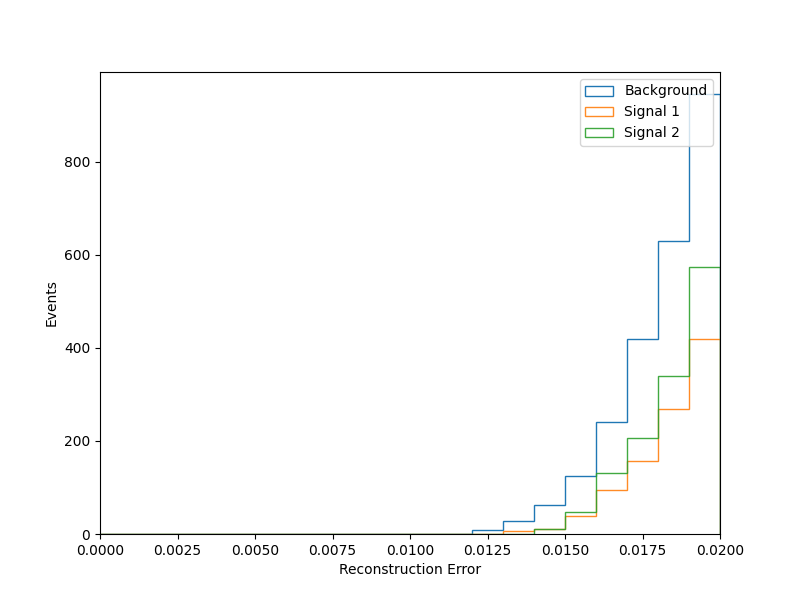
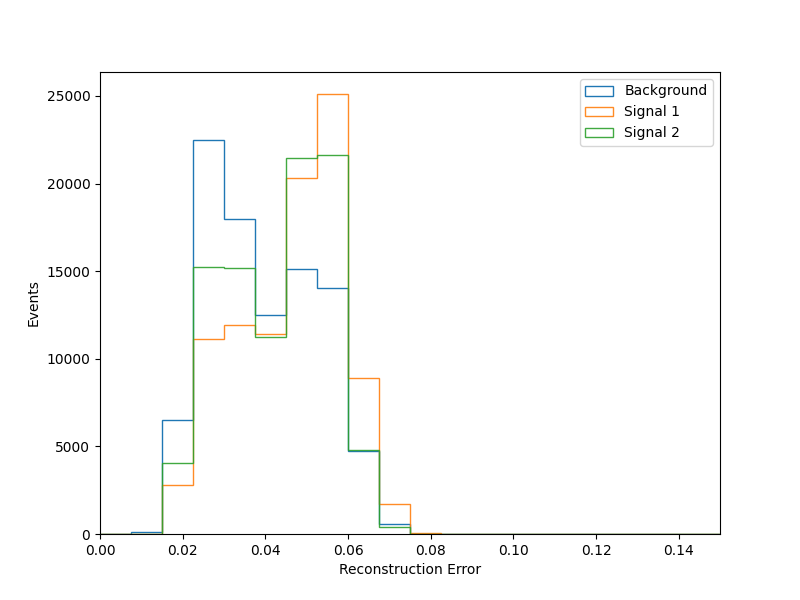
Testing with minmax scaling and 84, 14 layer dimensions

diff --git a/test.py b/test.py
@@ -127,12 +127,12 @@ loss_sig2_total = loss_sig2.mean(axis=1)
 # Plot Total Reconstruction Error
 nbins = 20
 fig, axes = plt.subplots(figsize=(8,6))
-axes.hist([loss_bkg_total], nbins, range=(0, 0.02), density=0, histtype='step', label=['Background'], stacked=True, alpha=1)
-axes.hist([loss_sig1_total], nbins, range=(0, 0.02), density=0, histtype='step', label=['Signal 1'], stacked=True, alpha=0.9)
-axes.hist([loss_sig2_total], nbins, range=(0, 0.02), density=0, histtype='step', label=['Signal 2'], stacked=True, alpha=0.9)
+axes.hist([loss_bkg_total], nbins, range=(0, 0.08), density=0, histtype='step', label=['Background'], stacked=True, alpha=1)
+axes.hist([loss_sig1_total], nbins, range=(0, 0.08), density=0, histtype='step', label=['Signal 1'], stacked=True, alpha=0.9)
+axes.hist([loss_sig2_total], nbins, range=(0, 0.08), density=0, histtype='step', label=['Signal 2'], stacked=True, alpha=0.9)
 axes.set_xlabel(r"Reconstruction Error")
 axes.set_ylabel("Events")
-axes.set_xlim(0, 0.02)
+axes.set_xlim(0, 0.08)
 axes.legend(loc='upper right')
 fig.savefig(f"figs/testing/reconstruction_error_{scale}_{mid_dim}_{latent_dim}.png")
 
